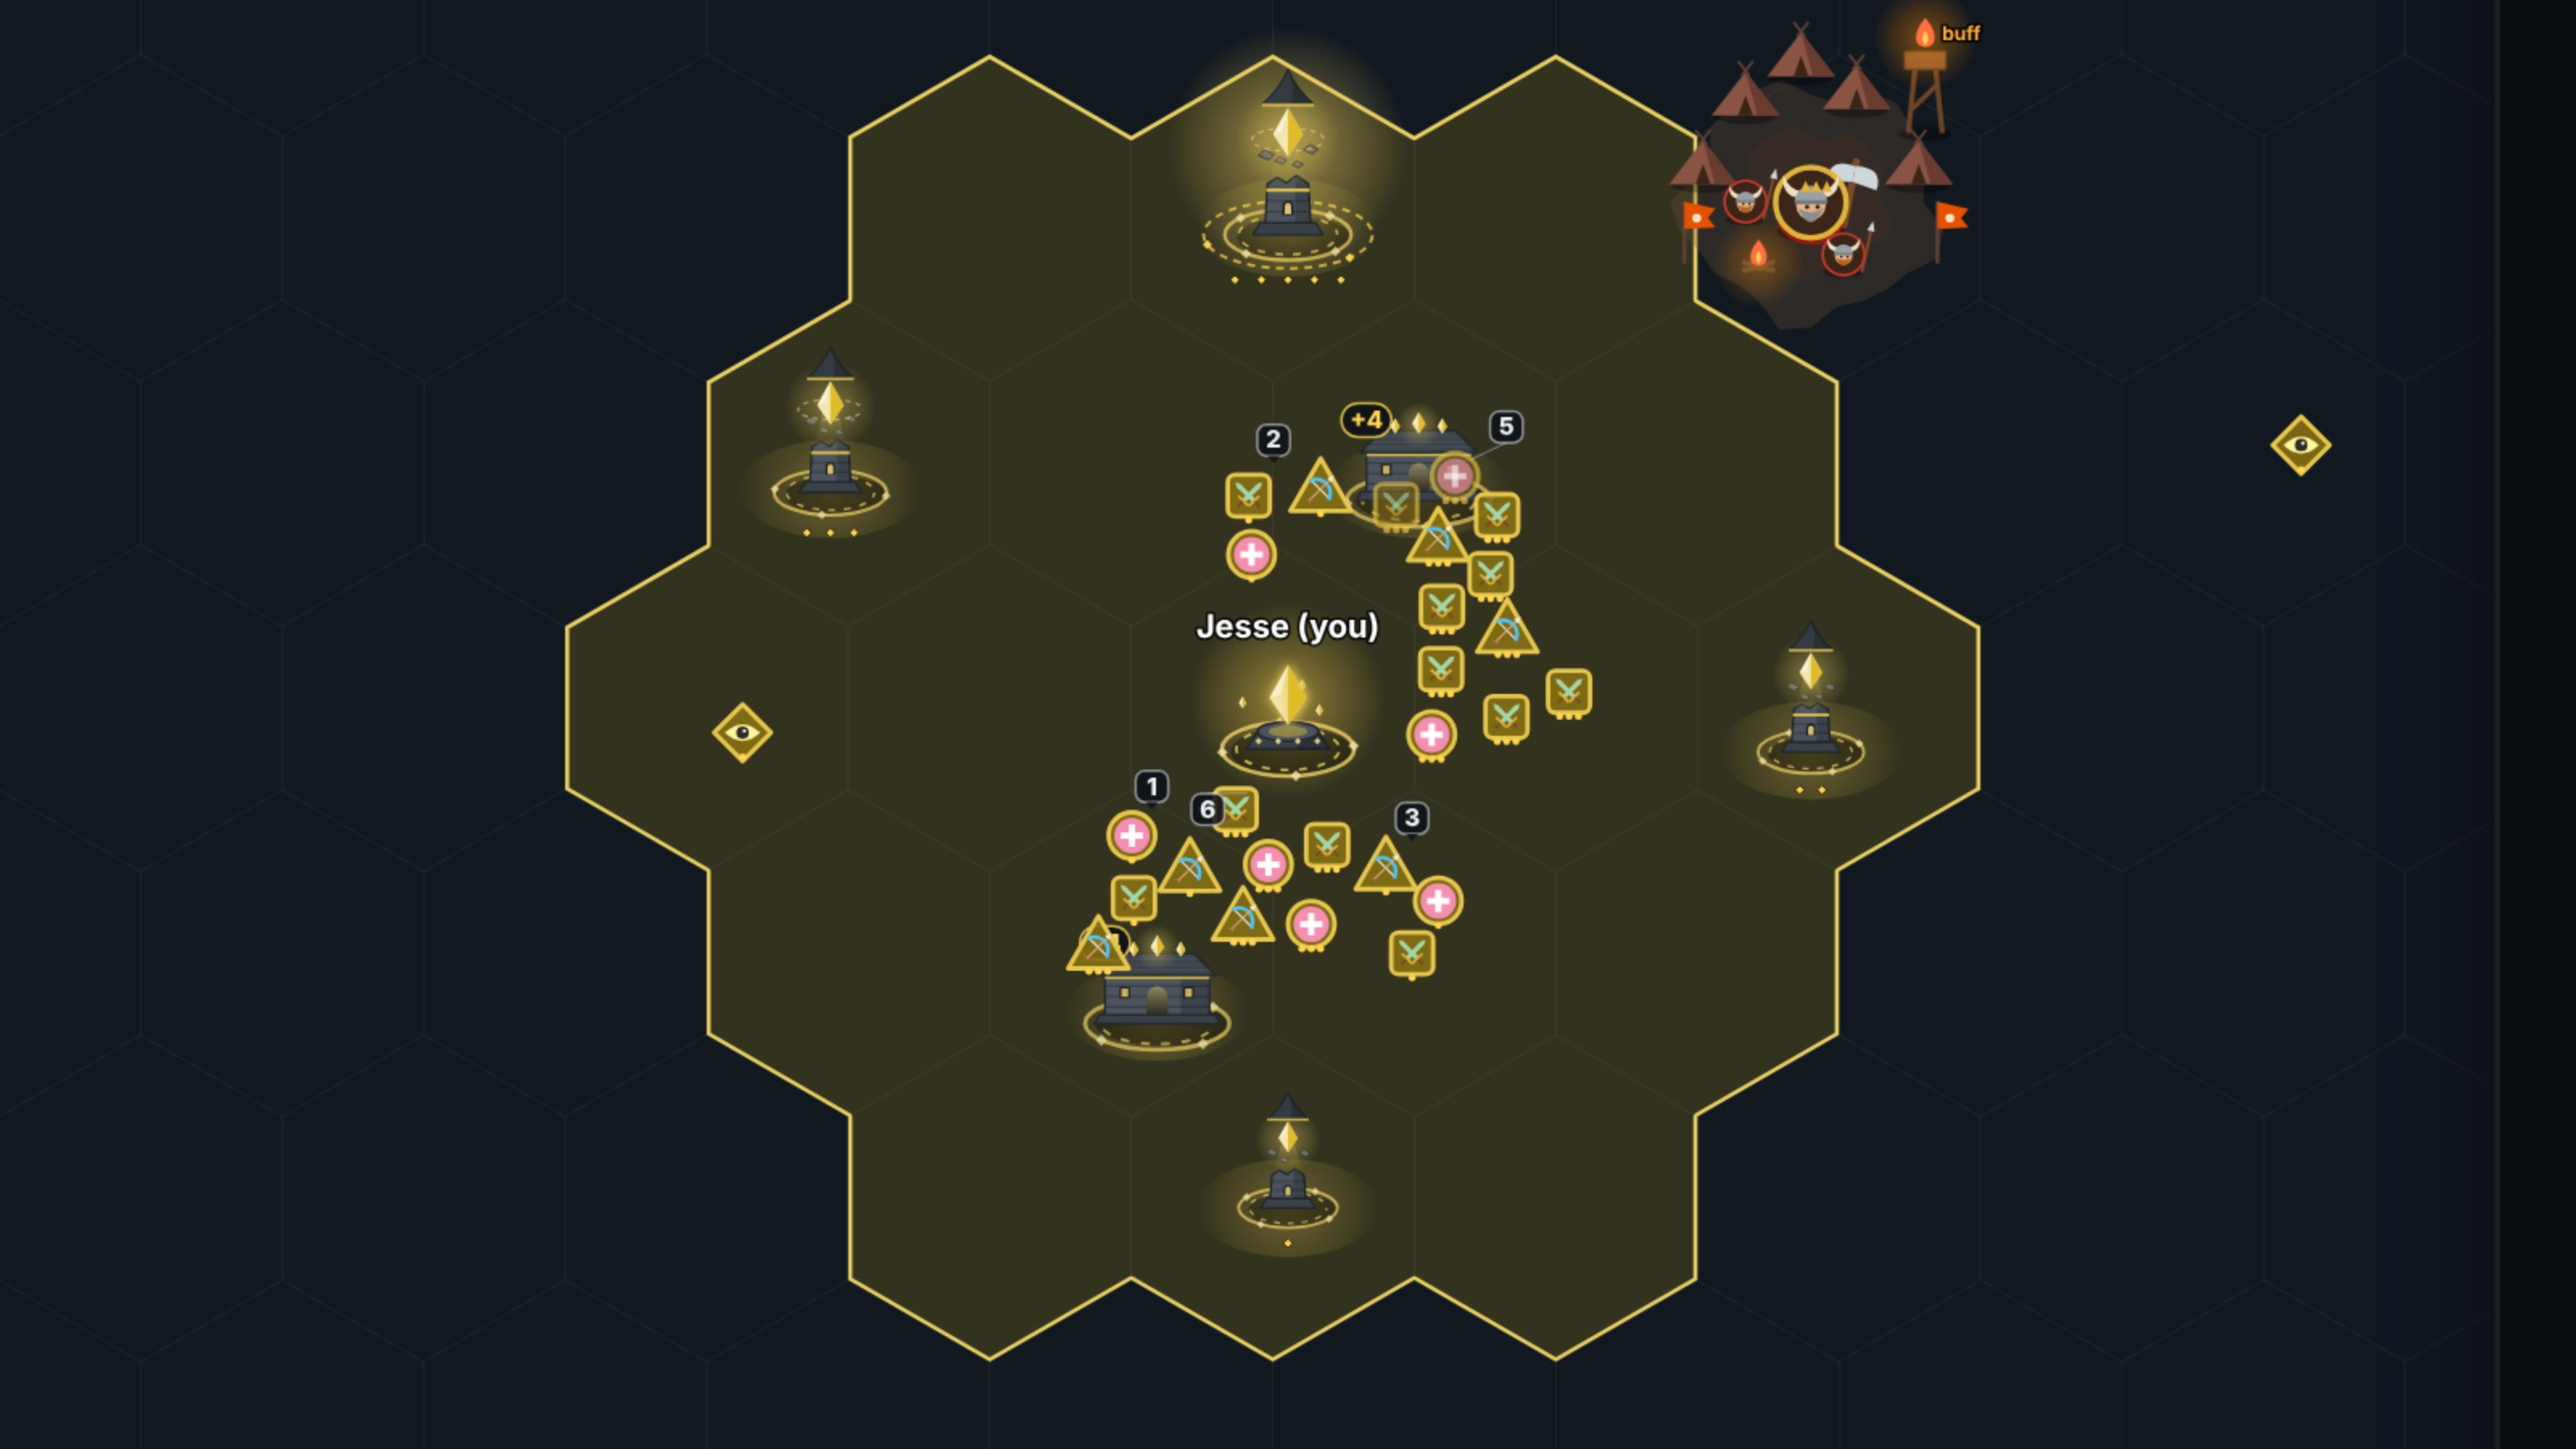
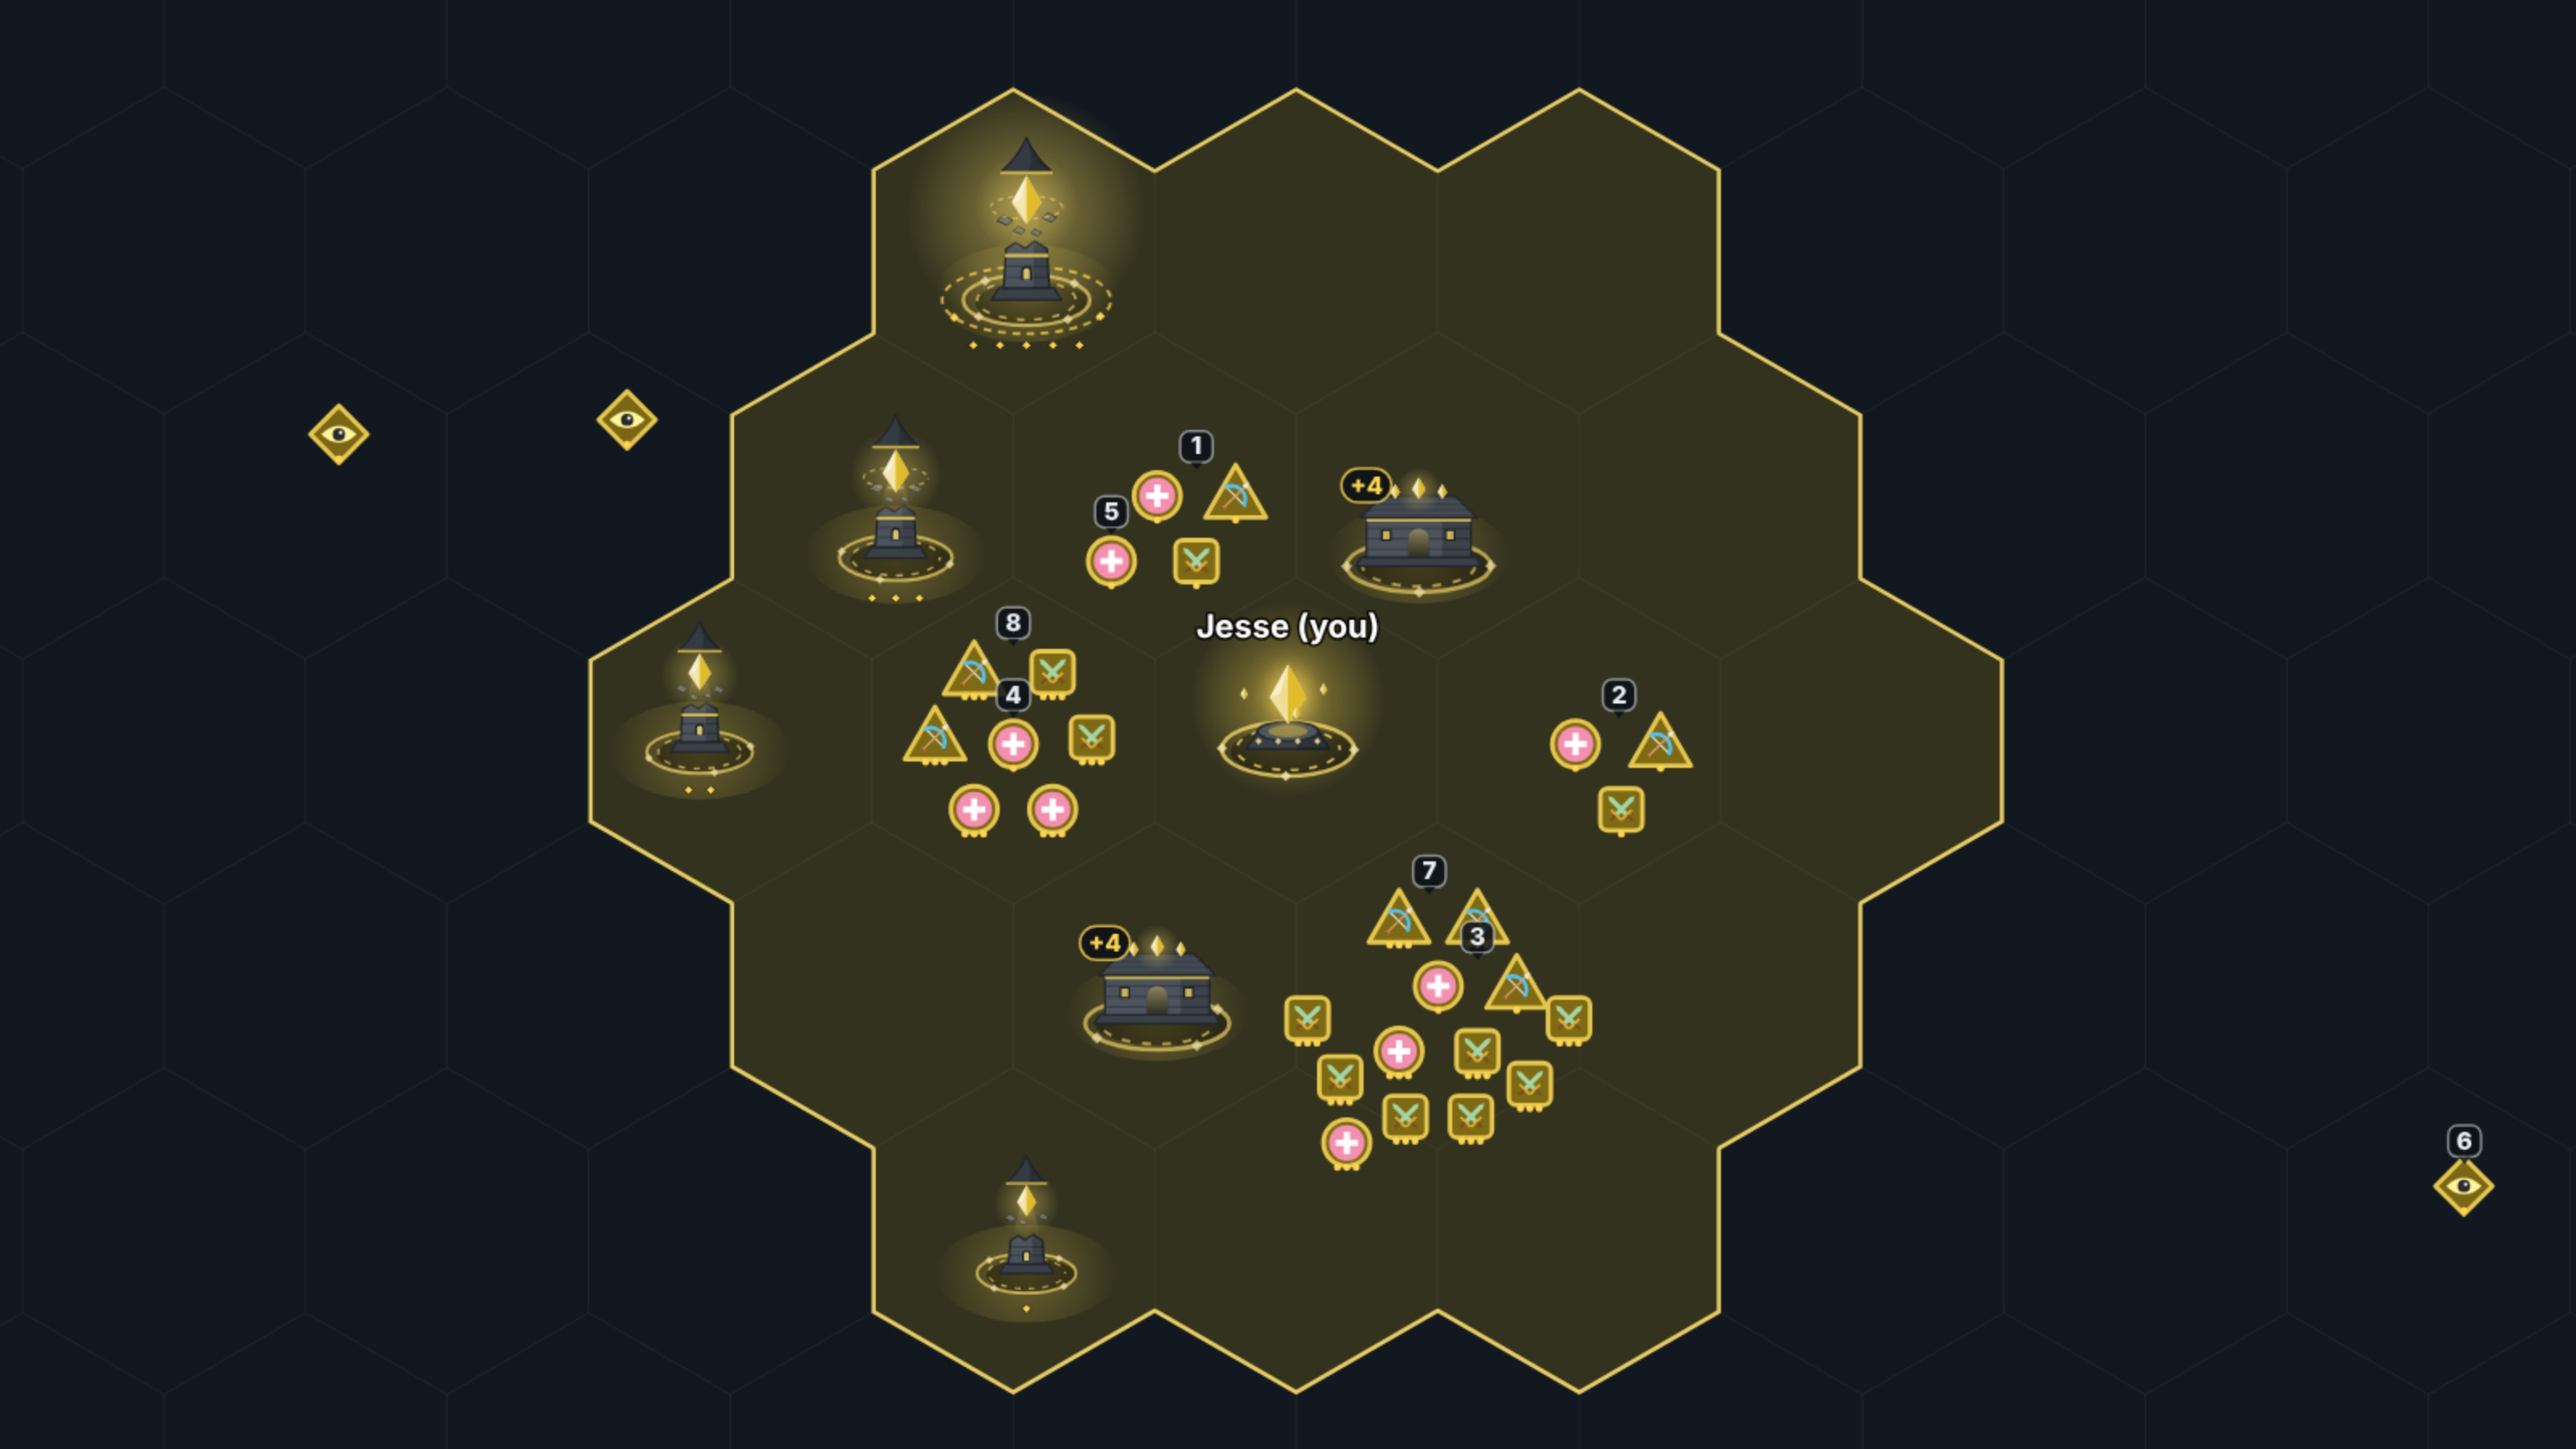
Troops form up inside hexes: evenly spaced formations when standing
Standing troops take spots in their hex (middle, ring of 6, ring of 12; a
building's hex keeps its middle clear; overflow spills into the next hex).
Each squad guarding home gets its own hex next to the core, tower guards form
up round their tower, and a held spot fills the clicked hex.

Claude-Session: https://claude.ai/code/session_01Ryddt8EqVvd3a1HwS4TL86

diff --git a/server/game/troops.js b/server/game/troops.js
@@ -368,13 +368,80 @@ module.exports = {
 
   // Where a squad stands guard: its own spot around the core (spread by squad number), or at the
   // tower it defends.
-  squadPost(u, a) {
-    if (u.anchor) return { x: a.x, y: a.y };
+  squadPost(u) {
+    return u.slotPos || this.players.get(u.owner).core;
+  },
+
+  // ---- formations: troops standing still fill their hex evenly. A hex holds a troop in the
+  // middle, a ring of 6 round it and an outer ring of 12 (19 in all); a hex with a building keeps its
+  // middle free. More troops than fit spill into the next hexes.
+  hexSlots() {
+    if (!this.slotOffsets) {
+      const o = [[0, 0]];
+      for (let k = 0; k < 6; k++) o.push([C.SLOT_RING1 * Math.cos((k * Math.PI) / 3), C.SLOT_RING1 * Math.sin((k * Math.PI) / 3)]);
+      for (let k = 0; k < 12; k++) {
+        const a = ((15 + 30 * k) * Math.PI) / 180;
+        o.push([C.SLOT_RING2 * Math.cos(a), C.SLOT_RING2 * Math.sin(a)]);
+      }
+      this.slotOffsets = o;
+    }
+    return this.slotOffsets;
+  },
+
+  // The hex a standing troop forms up in: the hex it holds, the tower it guards, or (guarding the
+  // core) one of the hexes round the core, a different one for each squad. -1: not standing still.
+  postHex(u) {
+    if (u.attack) return u.attack.k === 'p' ? this.hex.tileHex[u.attack.id] : -1;
+    if (u.anchor) {
+      const t = this.towers.get(u.anchor);
+      if (t) return this.hexAt(t.x, t.y);
+    }
     const p = this.players.get(u.owner);
-    const num = (p && p.squadNum.get(u.sq)) || 1;
-    const ang = num * 2.39996; // golden angle: squads fan out evenly around the core
-    const r = Math.min(a.leash * 0.6, 2.6);
-    return { x: a.x + Math.cos(ang) * r, y: a.y + Math.sin(ang) * r };
+    const core = this.hex.hexes[this.hexAt(p.core.x, p.core.y)];
+    const bh = this.buildingHexes();
+    if (!p.postRing || p.postRingAt !== this.structVersion + this.terrVersion * 1e6) {
+      // the hexes round the core that are mine and free, in a ring
+      p.postRing = core.n.filter((j) => this.hexOwner[j] === p.id && !bh[j])
+        .sort((a, b) => Math.atan2(this.hex.hexes[a].cy - core.cy, this.hex.hexes[a].cx - core.cx) - Math.atan2(this.hex.hexes[b].cy - core.cy, this.hex.hexes[b].cx - core.cx));
+      p.postRingAt = this.structVersion + this.terrVersion * 1e6;
+    }
+    if (!p.postRing.length) return core.i;
+    const num = p.squadNum.get(u.sq) || 1;
+    return p.postRing[(num - 1) % p.postRing.length];
+  },
+
+  // Give every standing troop its spot (u.slotPos) in its hex's formation.
+  assignSlots() {
+    const offs = this.hexSlots();
+    const byHex = new Map();
+    for (const u of this.units.values()) {
+      u.slotPos = null;
+      if (C.UNITS[u.kind].scout && !u.attack) continue; // scouts off exploring
+      const h = this.postHex(u);
+      if (h < 0) continue;
+      const key = `${u.owner}:${h}`;
+      if (!byHex.has(key)) byHex.set(key, { h, list: [] });
+      byHex.get(key).list.push(u);
+    }
+    const bh = this.buildingHexes();
+    for (const { h, list } of byHex.values()) {
+      list.sort((a, b) => a.sq - b.sq || a.id - b.id);
+      const hx = this.hex.hexes[h];
+      const free = bh[h] ? offs.slice(1) : offs; // keep the middle clear of a building
+      list.forEach((u, k) => {
+        let into = hx;
+        let slot = k;
+        if (k >= free.length) {
+          // spill into the next hexes round it
+          const extra = k - free.length;
+          into = this.hex.hexes[hx.n[Math.floor(extra / offs.length) % hx.n.length]];
+          slot = extra % offs.length;
+          u.slotPos = { x: into.cx + offs[slot][0], y: into.cy + offs[slot][1] };
+          return;
+        }
+        u.slotPos = { x: hx.cx + free[slot][0], y: hx.cy + free[slot][1] };
+      });
+    }
   },
 
   // Push troops apart so none sit on top of each other (friend or foe), and out of buildings and
@@ -438,6 +505,7 @@ module.exports = {
 
   updateUnits(dt) {
     this.groups = this.squadGroups();
+    this.assignSlots();
     for (const u of this.units.values()) {
       if (u.hp <= 0 || !this.units.has(u.id)) continue;
       const def = C.UNITS[u.kind];
@@ -527,9 +595,12 @@ module.exports = {
             continue;
           }
         }
-        const stop = tgt.struct ? Math.max(0.6, s.range * 0.85) : tgt.hold ? 1.2 : 1;
-        const pace = this.squadPace(u, tgt.x, tgt.y, speed);
-        if (pace > 0) this.marchTo(u, tgt.goal, tgt.x, tgt.y, stop, pace, dt);
+        const stop = tgt.struct ? Math.max(0.6, s.range * 0.85) : tgt.hold ? 0.05 : 1;
+        // holding a hex: each troop heads for its own spot in the formation
+        const gx = tgt.hold && u.slotPos ? u.slotPos.x : tgt.x;
+        const gy = tgt.hold && u.slotPos ? u.slotPos.y : tgt.y;
+        const pace = this.squadPace(u, gx, gy, speed);
+        if (pace > 0) this.marchTo(u, tgt.goal, gx, gy, stop, pace, dt);
         continue;
       }
 
@@ -580,19 +651,17 @@ module.exports = {
         if (this.moveUnit(u, dt, speed)) u.idleUntil = this.time + 0.8 + this.rand() * 2;
         continue;
       }
-      // Stand guard with the squad, milling about its post.
-      const post = this.squadPost(u, a);
-      const g = this.groups.get(u.sq);
-      const spread = 0.5 + 0.55 * C.UNIT_SPACING * Math.sqrt(g ? g.n : 1); // room for the squad without crowding
-      if (dist(u.x, u.y, post.x, post.y) > spread + 0.75 || this.terr[this.idx(tx, ty)] !== u.owner) {
-        this.planUnit(u, post.x, post.y);
-        continue;
+      // Stand guard in formation: walk to my spot in the squad's hex and stay there.
+      const post = this.squadPost(u);
+      const off = dist(u.x, u.y, post.x, post.y);
+      if (off <= 0.8) {
+        this.stepToward(u, post.x, post.y, 0.02, speed * 0.6, dt); // the last bit, straight onto the spot
+      } else {
+        if (this.time >= u.idleUntil) {
+          this.planUnit(u, post.x, post.y);
+          u.idleUntil = this.time + 0.5;
+        }
       }
-      if (this.time < u.idleUntil) continue;
-      const ang = this.rand() * Math.PI * 2;
-      const r = spread * Math.sqrt(this.rand());
-      this.planUnit(u, post.x + Math.cos(ang) * r, post.y + Math.sin(ang) * r);
-      u.idleUntil = this.time + 0.8 + this.rand() * 1.5;
     }
   },
 

diff --git a/test/waves.test.js b/test/waves.test.js
@@ -489,3 +489,31 @@ test('troops keep their personal space: never on top of each other or inside bui
     }
   }
 });
+
+test('standing troops fill their hex in an even formation', () => {
+  const { g, a } = duel(32);
+  for (const k of Object.keys(a.army)) a.army[k] = 0; // all soldiers
+  a.nextWaveAt = g.time;
+  g.update(0.05);
+  a.nextWaveAt = Infinity;
+  const squad = mine(g, a);
+  run(g, 20);
+  const hexes = new Set(squad.map((u) => g.hexAt(Math.floor(u.x), Math.floor(u.y))));
+  assert.strictEqual(hexes.size, 1, 'the squad stands in one hex');
+  const [h] = hexes;
+  const core = g.hexAt(a.core.x, a.core.y);
+  assert.ok(g.hex.hexes[core].n.includes(h), 'a hex next to the core');
+  for (const u of squad) {
+    assert.ok(u.slotPos && Math.hypot(u.x - u.slotPos.x, u.y - u.slotPos.y) < 0.3, 'on its spot');
+    for (const v of squad) if (v !== u) assert.ok(Math.hypot(u.x - v.x, u.y - v.y) > 0.9, 'evenly spaced');
+  }
+  // a second squad forms up in a different hex
+  a.nextWaveAt = g.time;
+  g.update(0.05);
+  a.nextWaveAt = Infinity;
+  const second = mine(g, a).filter((u) => !squad.includes(u));
+  run(g, 20);
+  const h2 = new Set(second.map((u) => g.hexAt(Math.floor(u.x), Math.floor(u.y))));
+  assert.strictEqual(h2.size, 1);
+  assert.notStrictEqual([...h2][0], h, 'each squad has its own hex');
+});

diff --git a/shared/config.js b/shared/config.js
@@ -57,6 +57,8 @@
     // Personal space: troops keep at least UNIT_SPACING apart (friend or foe) and stay this far from
     // the middle of buildings and barbarians, so they never sit on top of each other.
     UNIT_SPACING: 0.95, // a little more than the widest troop icon, so icons never overlap
+    SLOT_RING1: 1.2, // formation rings inside a hex (tiles from its centre): 6 troops...
+    SLOT_RING2: 2.05, // ...and 12 more
     STRUCT_BODY: 0.6,
     CORE_BODY: 0.85,
     CREEP_BODY: 0.55,

diff --git a/README.md b/README.md
@@ -41,7 +41,7 @@ closes after a minute. **Play** still drops you into the always-running public g
 | **Waves** | Every 20s your core sends out a free wave of **4 troops**: to start with, one of each type (soldier, scout, medic, archer). |
 | **Barracks** | Build **barracks** (`R`, on your own land) for **+4 troops in every wave**. Each barracks' 4 march out from the barracks itself and join that wave's squad. Up to 5 barracks (24 troops per wave). They cost 250g, then 150g more for each one you own. They don't shoot or level up, and like towers they can be destroyed: whoever destroys one takes it over, with its +4. |
 | **Army mix** | The army panel decides **which troops fill your wave slots**, for free (`1`–`4` / `+`). Unassigned slots are filled with soldiers. Gold goes into **levelling troop types** (`Shift`+number), barracks and towers. |
-| **Squads** | **Every wave marches out as a squad of its own**, numbered 1, 2, 3… (the lowest free number; a wiped-out squad's number is reused). A squad **sticks together**: on the march it moves at its slowest troop's pace and troops that run ahead wait for it, and at home each squad stands guard at its own spot around the core. Its number floats above it on the map, nudged to a free spot so it never covers another squad's number, an enemy or a building. Troops also keep a little **personal space**: they never stand on top of each other (friend or foe) or inside buildings. **Click any of its troops** (or its chip in the Squads panel, or press its number `1`–`9`) to pick it, `Shift` to pick more, `Q` for all squads, then **right-click** a target. `M` merges the picked squads. New squads **guard home**, or with **F** they **follow your last order**. `H` sends every squad home. |
+| **Squads** | **Every wave marches out as a squad of its own**, numbered 1, 2, 3… (the lowest free number; a wiped-out squad's number is reused). A squad **sticks together**: on the march it moves at its slowest troop's pace and troops that run ahead wait for it, and **standing troops form up inside a hex**: evenly spaced, one in the middle, a ring of 6 round it and an outer ring of 12 (a bigger squad spills into the next hex). At home each squad takes its own hex next to the core, guards of a tower form up round it in its hex, and a squad holding a spot fills the hex you clicked. Its number floats above it on the map, nudged to a free spot so it never covers another squad's number, an enemy or a building. Troops also keep a little **personal space**: they never stand on top of each other (friend or foe) or inside buildings. **Click any of its troops** (or its chip in the Squads panel, or press its number `1`–`9`) to pick it, `Shift` to pick more, `Q` for all squads, then **right-click** a target. `M` merges the picked squads. New squads **guard home**, or with **F** they **follow your last order**. `H` sends every squad home. |
 | **Fog of war** | The map starts dark except your own land and what your core (9 tiles), towers (range + 2), barracks and troops can see; scouts see furthest. **Once an area has been explored, the fog there is cleared for good**: you keep seeing everything that happens there (troops, fights, buildings, camps), even after your troops leave. Enemy troops in unexplored fog aren't even sent to your browser. Spectators see everything. |
 | **Regrouping** | **Ctrl-click** single troops to pick them, then press a squad's number (or click its chip) to move them into it, or `N` to make them a new squad. Right-clicking with troops picked sends them off as a new squad. |
 | **Moving** | **Right-click empty ground** to send the picked squads there. They hold the spot, fight enemies that come within 6 tiles of it, and come back to it afterwards. |
